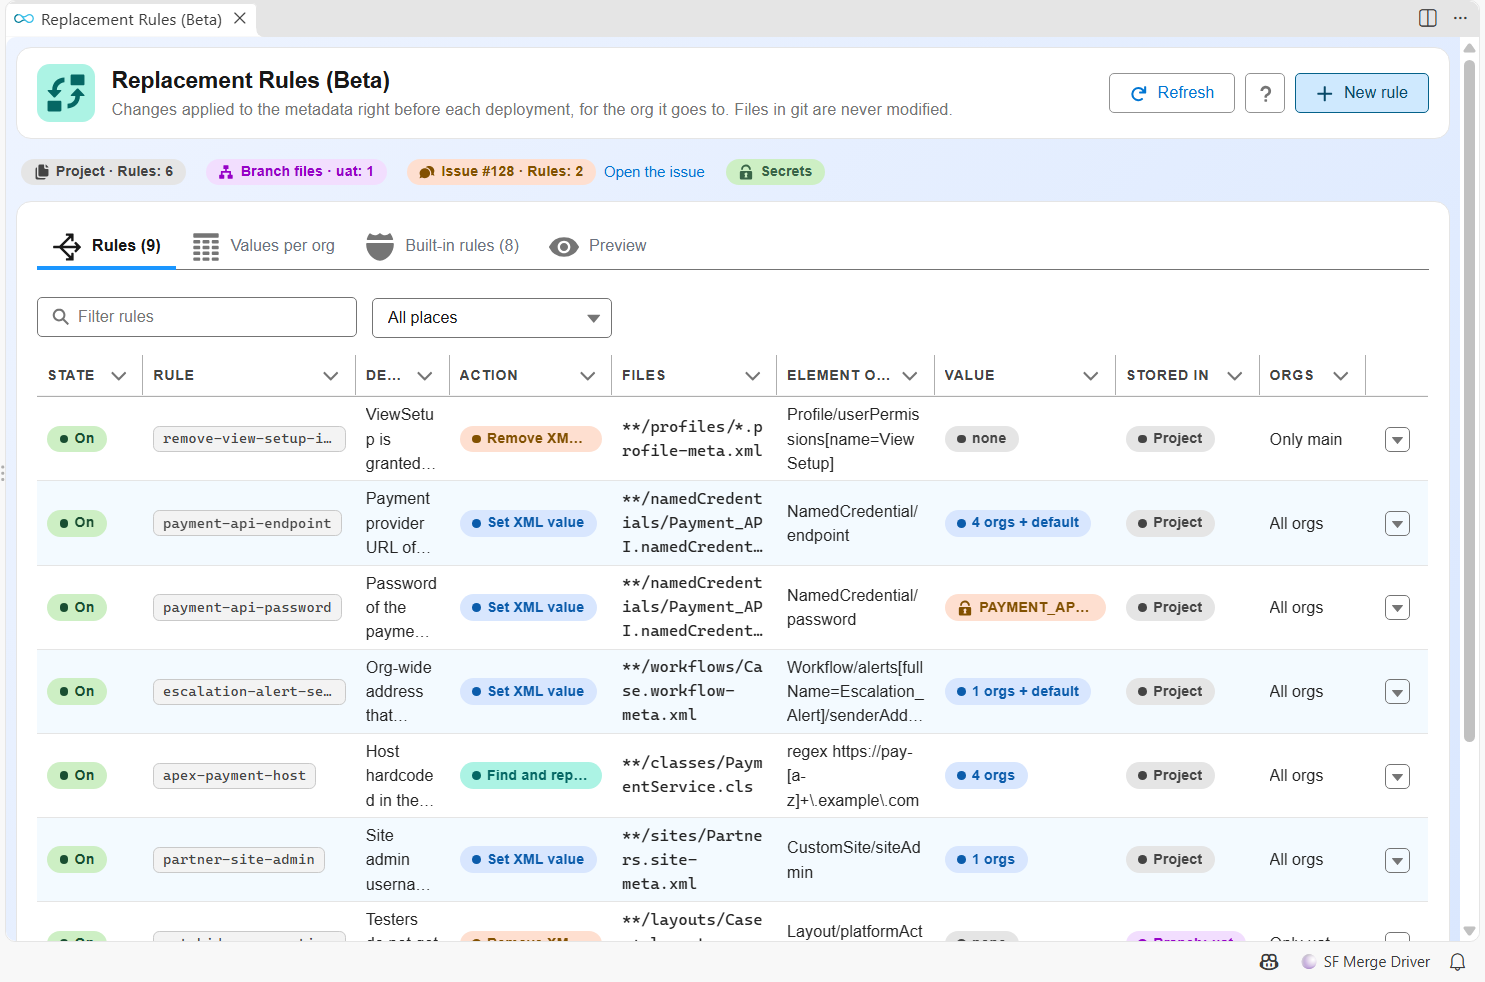
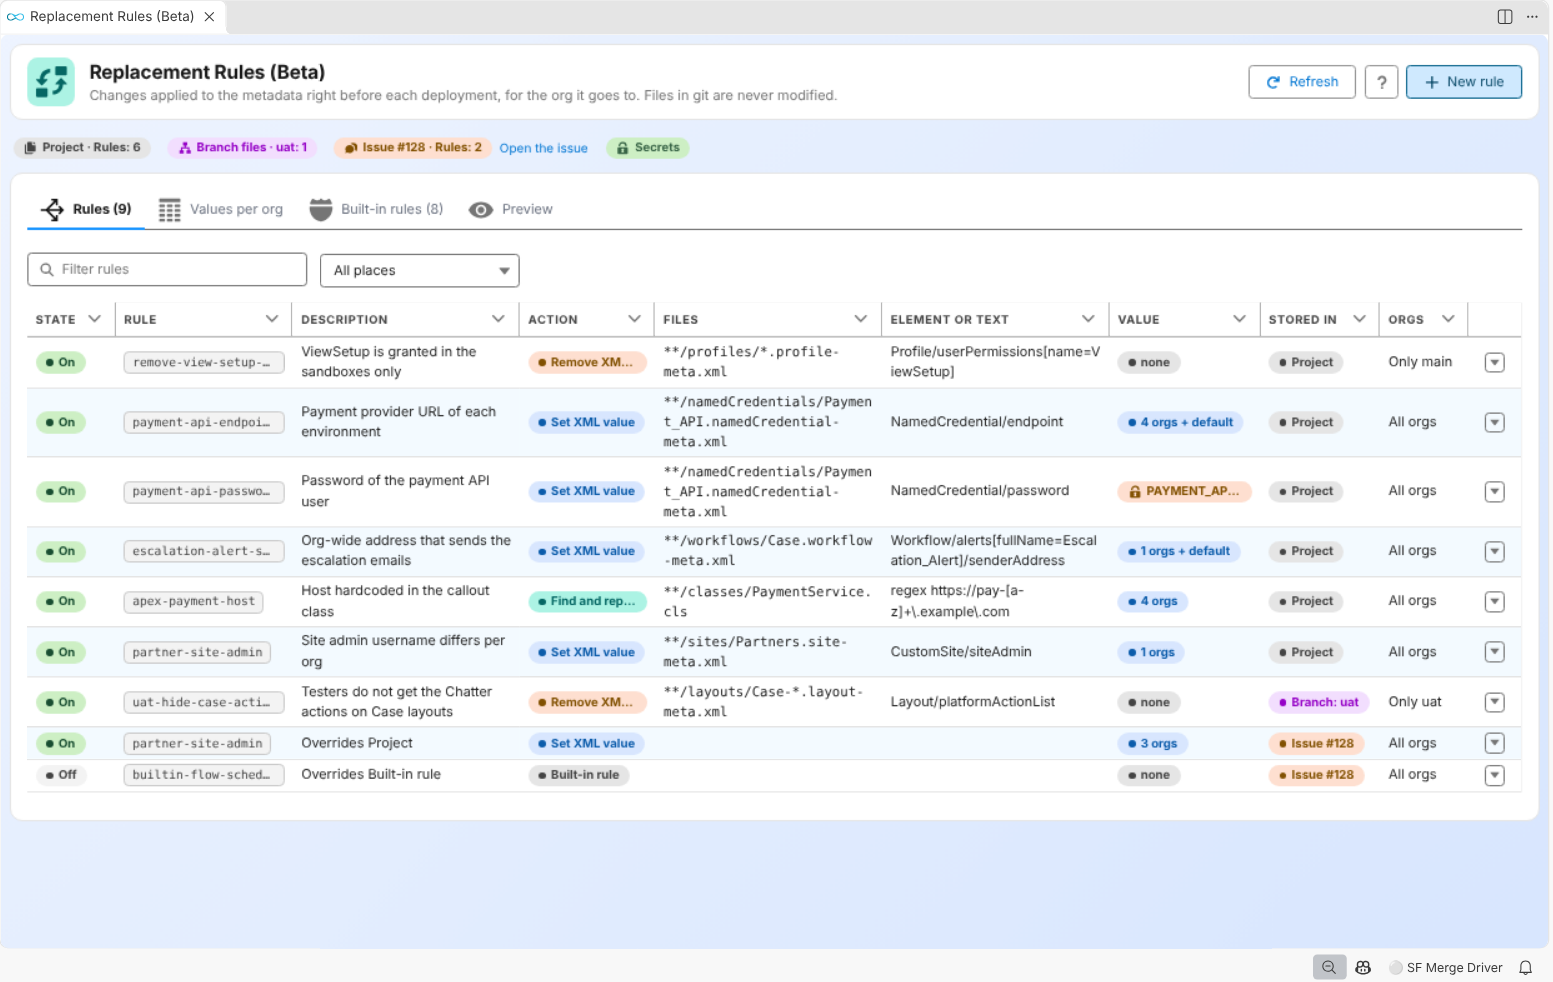
docs: replacement rules screenshots zoomed out, rule editor for each rule type (#2424)
* docs: zoom out the Replacement Rules panel screenshot

Taken one zoom level out so all nine rules and every column of the
rules table are readable.

* docs: show the rule editor for each replacement rule type

Each rule type (xml-value, xml-remove, text) gets its own example and a
screenshot of the rule editor. The Values per org screenshot is zoomed
out so the value of each org can be read.

---------

diff --git a/docs/salesforce-devops-config-replacement-rules.md b/docs/salesforce-devops-config-replacement-rules.md
@@ -65,29 +65,11 @@ Rules are configured from the **Replacement Rules** panel of VS Code (settings m
 | `Workflow/alerts[fullName=Escalation_Alert]/senderAddress` | The sender of one email alert                       |
 | `Layout/excludeButtons[.=SmartFillEnrich]`                 | The `excludeButtons` element holding this value     |
 
-For example, to remove one user permission from every Profile deployed to production:
+In the VS Code panel, **New rule** opens the editor, and the row menu of a rule opens it on that rule. The help of the **Element** field lists the common paths.
 
-```yaml
-replacementRules:
-  - id: remove-view-setup-in-production
-    description: ViewSetup is granted in the sandboxes only
-    type: xml-remove
-    files: "**/profiles/*.profile-meta.xml"
-    xmlPath: Profile/userPermissions[name=ViewSetup]
-    includeTargetBranches: [main]
-```
+#### Set an XML value (`xml-value`)
 
-In the VS Code panel, **New rule** opens the editor. The help of the **Element** field lists the common paths.
-
-![Rule editor removing one user permission of the Profiles deployed to production](assets/images/replacement-rules-editor.png)
-
-The same rule works for Permission Sets with `files: "**/permissionsets/*.permissionset-meta.xml"` and `xmlPath: PermissionSet/userPermissions[name=ViewSetup]`.
-
-An `xml-value` rule never creates a missing element: it reports "not found". A `text` rule replaces every occurrence, and its replacement is literal (no `$1`), so a value containing `$` is safe.
-
----
-
-### Values per org
+The Payment API endpoint of each org, with one URL per major branch and a `default` for developer sandboxes and scratch orgs:
 
 ```yaml
 replacementRules:
@@ -104,6 +86,57 @@ replacementRules:
       default: https://pay-sandbox.example.com
     required: true
 ```
+
+![Rule editor setting the endpoint of a Named Credential, with one URL per org](assets/images/replacement-rules-editor-xml-value.png)
+
+An `xml-value` rule never creates a missing element: it reports "not found". **Secret** reads the value from a CI/CD variable instead (see [Secrets](#secrets)).
+
+#### Remove an XML element (`xml-remove`)
+
+One user permission removed from every Profile deployed to production:
+
+```yaml
+replacementRules:
+  - id: remove-view-setup-in-production
+    description: ViewSetup is granted in the sandboxes only
+    type: xml-remove
+    files: "**/profiles/*.profile-meta.xml"
+    xmlPath: Profile/userPermissions[name=ViewSetup]
+    includeTargetBranches: [main]
+```
+
+![Rule editor removing one user permission of the Profiles deployed to production](assets/images/replacement-rules-editor.png)
+
+The same rule works for Permission Sets with `files: "**/permissionsets/*.permissionset-meta.xml"` and `xmlPath: PermissionSet/userPermissions[name=ViewSetup]`.
+
+#### Find and replace text (`text`)
+
+The host hardcoded in an Apex class, found with a regular expression and replaced by the one of each org:
+
+```yaml
+replacementRules:
+  - id: apex-payment-host
+    description: Host hardcoded in the callout class
+    type: text
+    files: "**/classes/PaymentService.cls"
+    find: https://pay-[a-z]+\.example\.com
+    regex: true
+    values:
+      integration: https://pay-int.example.com
+      uat: https://pay-uat.example.com
+      preprod: https://pay-staging.example.com
+      main: https://pay.example.com
+```
+
+![Rule editor replacing a host hardcoded in an Apex class, with one value per org](assets/images/replacement-rules-editor-text.png)
+
+A `text` rule replaces every occurrence, and its replacement is literal (no `$1`), so a value containing `$` is safe. Without `regex: true`, `find` is a plain text.
+
+---
+
+### Values per org
+
+The [`xml-value` example](#set-an-xml-value-xml-value) above gives each org its own URL.
 
 - `value`: the same value for every org.
 - `values`: one value per target branch. `default` applies to developer sandboxes, scratch orgs, and the branches without their own value. An org with no value and no default keeps the file of git.

diff --git a/CHANGELOG.md b/CHANGELOG.md
@@ -3,6 +3,7 @@
 ## [beta] (main)
 
 - [hardis:project:configure:auth](https://sfdx-hardis.cloudity.com/hardis/project/configure/auth/) and [hardis:org:configure:monitoring](https://sfdx-hardis.cloudity.com/hardis/org/configure/monitoring/): System Administrator is now selected by default as the profile of the External Client App, in every org language.
+- Doc: the [Replacement rules](https://sfdx-hardis.cloudity.com/salesforce-devops-config-replacement-rules/) page shows an example and a screenshot of the rule editor for each rule type (`xml-value`, `xml-remove`, `text`), and its Rules and Values per org screenshots are zoomed out so every column can be read.
 - Doc: the [Aha! integration](https://sfdx-hardis.cloudity.com/salesforce-devops-setup-integration-aha/) page explains how to pass the Aha! variables to pipelines created before 8.14.0.
 - Upgrade **picomatch** to 4.0.7.
 
